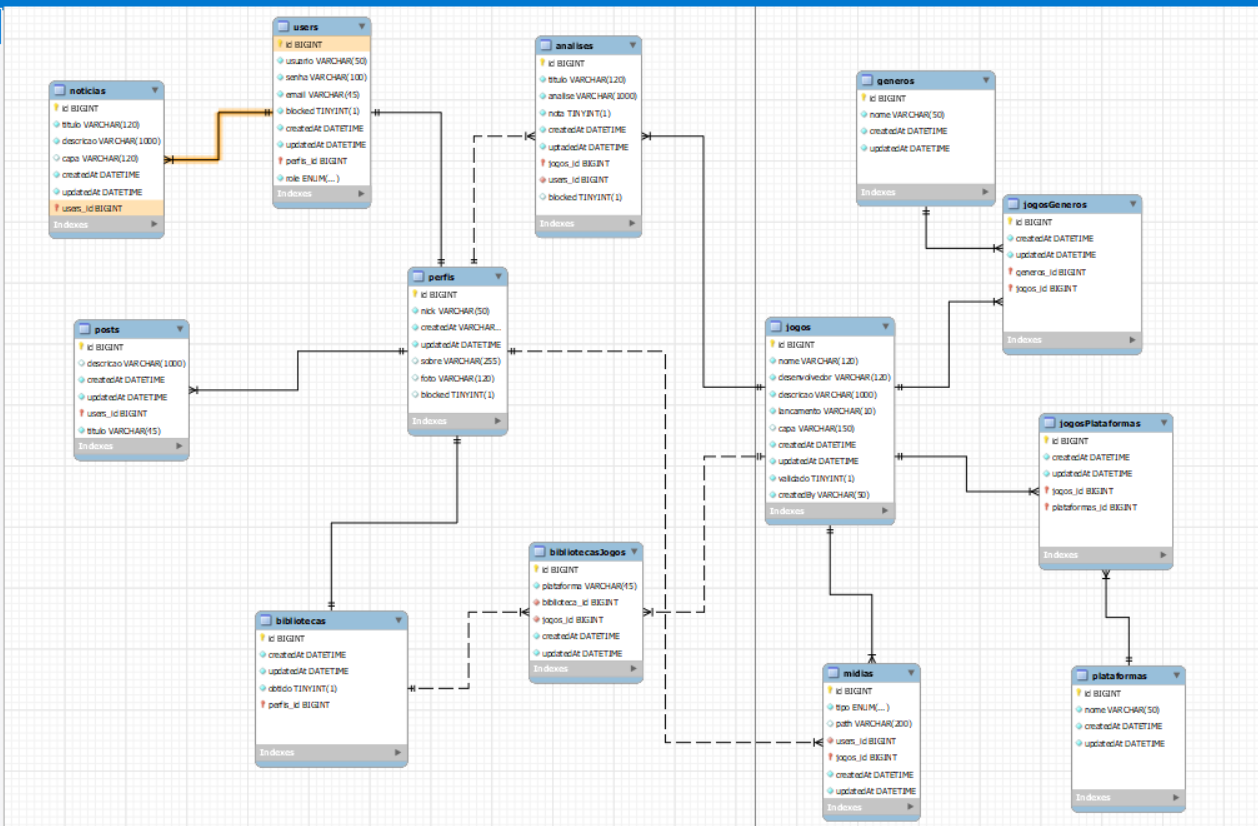
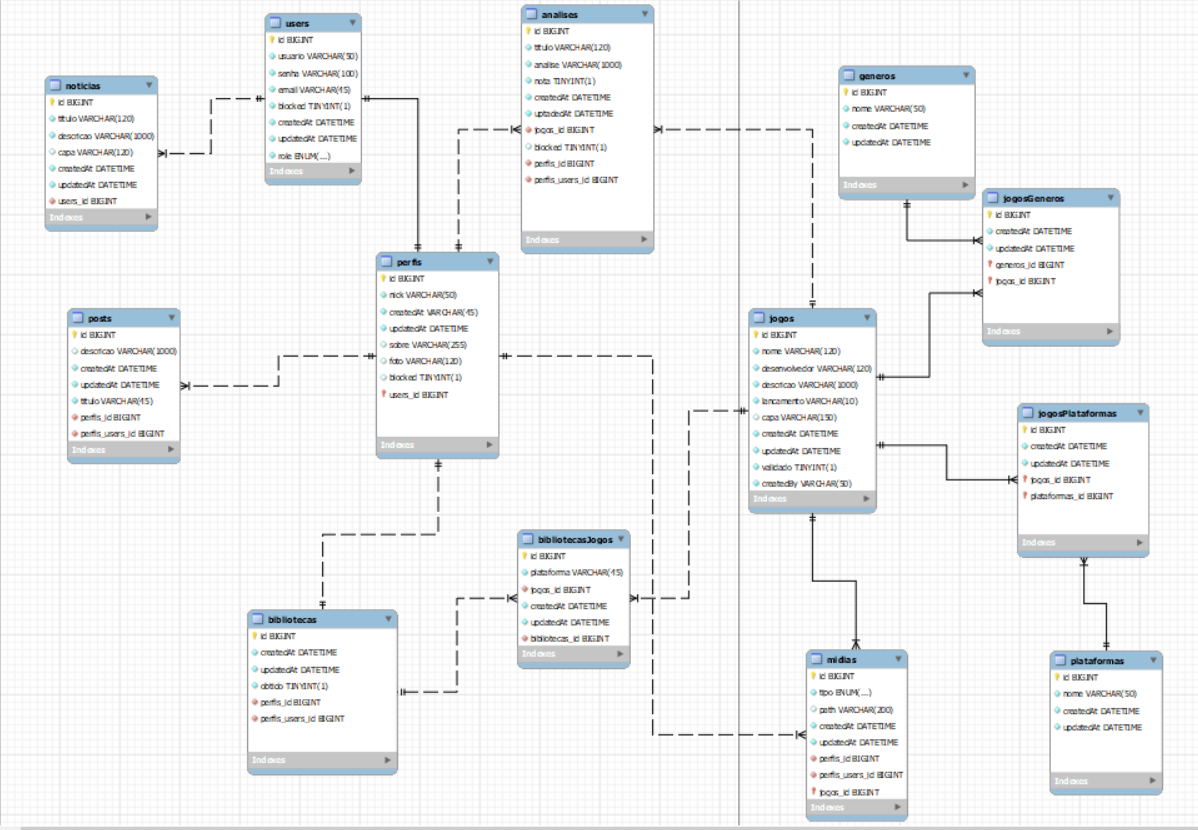
Removendo erro no diagrama

Changed region(s): [[0.0, 0.0, 1.0, 1.0]]

diff --git a/models/noticia.js b/models/noticia.js
@@ -23,7 +23,7 @@ module.exports = (sequelize, DataTypes) => {
     users_id: {
       type: DataTypes.BIGINT,
       references: {
-        model:'user'
+        model:'users'
       }
     },
     capa: DataTypes.STRING(150)
